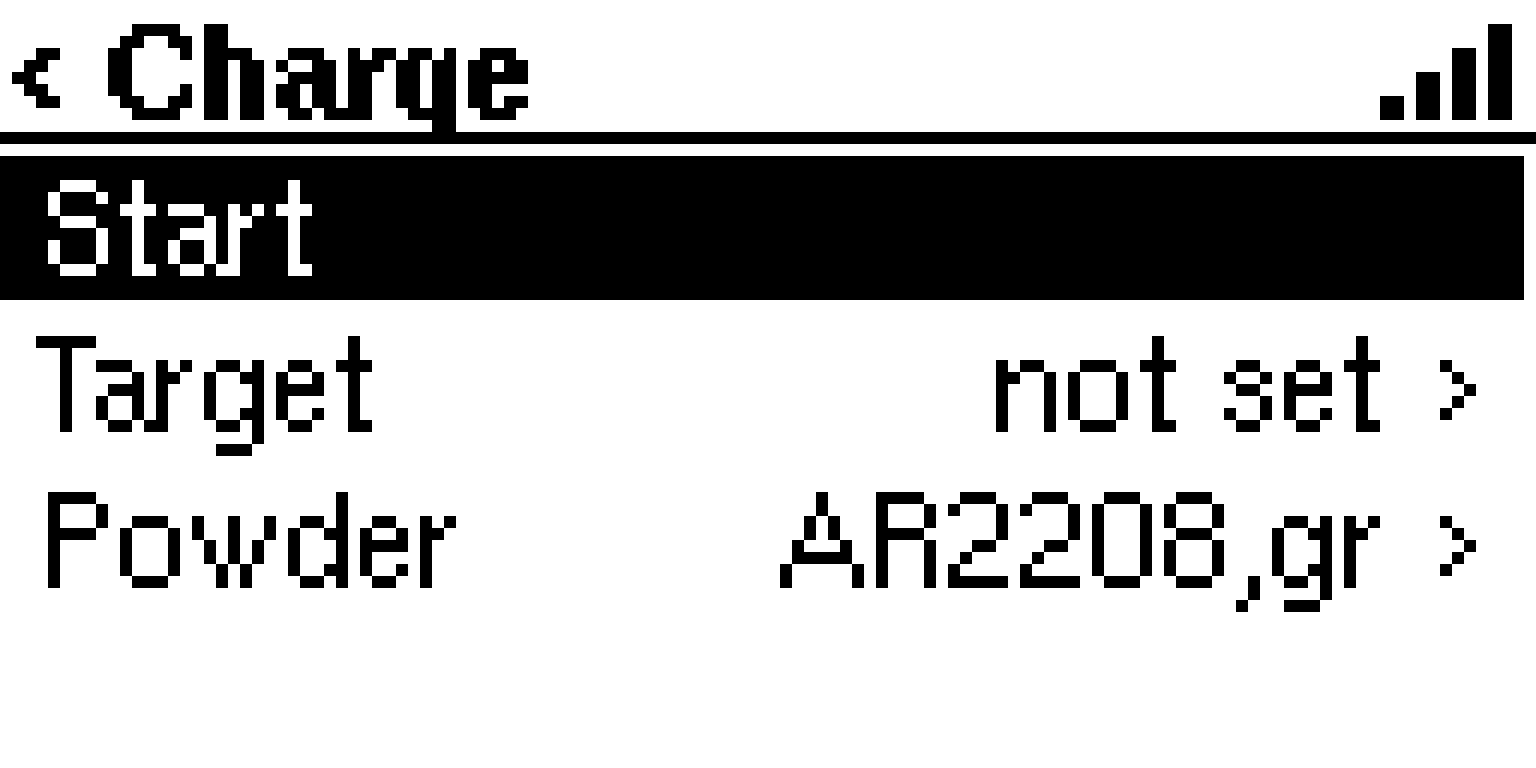
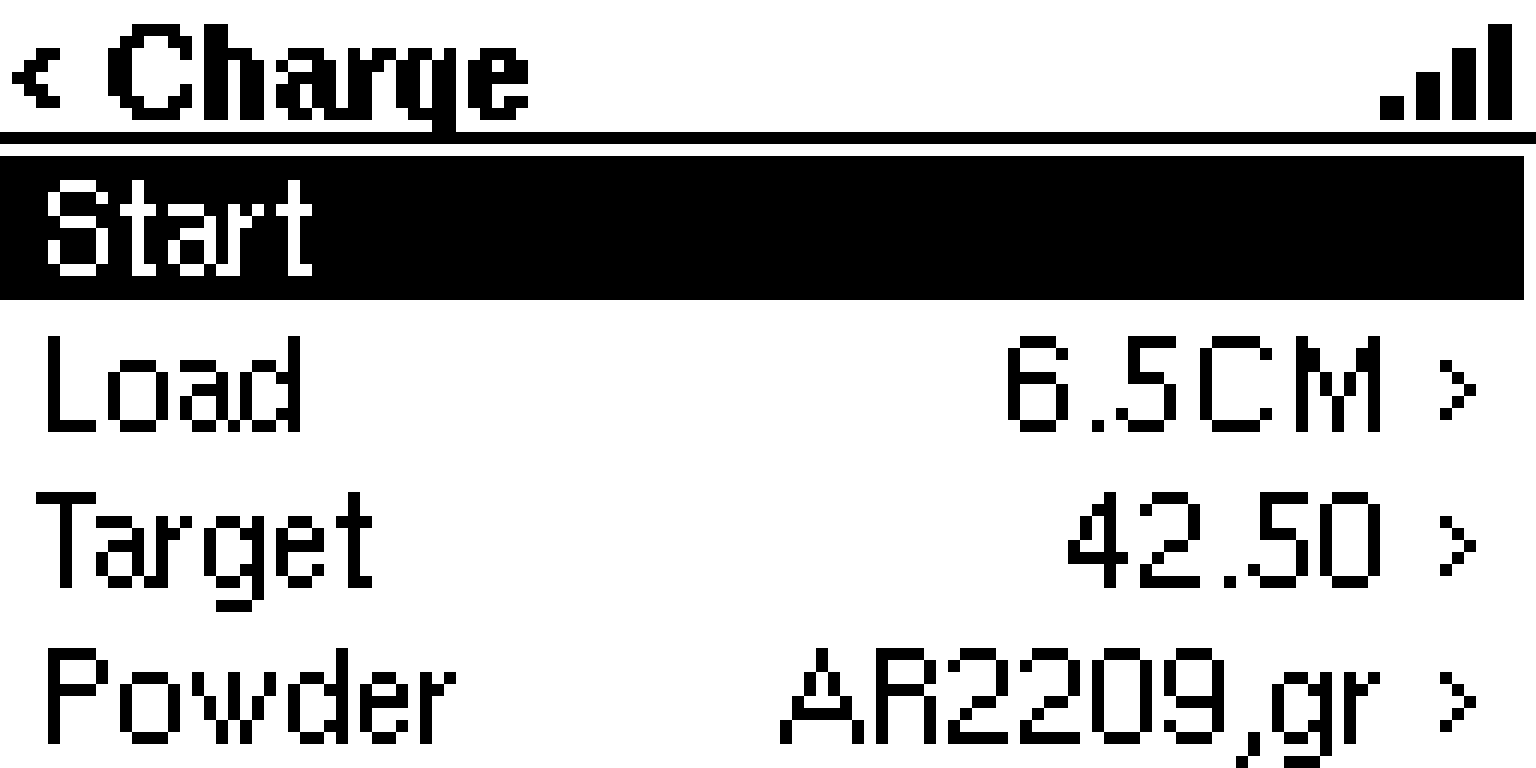
README: the loads, and the Charge and Trickler pages as they are now
What the unit does names the eight loads; the two pictures are taken
again from the Pico W: the screen's Charge page with its Load row, and
the web's Trickler page with its Load picker and the Loads destination.

diff --git a/README.md b/README.md
@@ -6,11 +6,11 @@ Join our [Discord server](https://discord.gg/ZhdThA2vrW) for help and developmen
 
 ## What it does
 
-- **Charges.** Set a target weight and a powder, put the cup on the scale, and the unit zeroes the scale, trickles the charge, asks you to take the cup off, and starts the next charge when the cup is back.
+- **Charges.** Choose a load, put the cup on the scale, and the unit zeroes the scale, trickles the charge, asks you to take the cup off, and starts the next charge when the cup is back.
 - **Calibrates and tunes itself.** A calibration measures the cup, the scale's lag and each powder's flow, and sets the charge's settings from them. With auto-tune switched on, the unit also tunes its control of the fine trickler as it charges.
-- **Keeps up to eight powders,** each with its own settings.
+- **Keeps up to eight loads and eight powders.** A load is a name, a target weight and the powder it is thrown with; a powder keeps its own settings. Two calibres on one powder are two loads, each with its own weight, and every load is still there after a restart.
 - **Purges** the powder out of the trickler (the cleanup).
-- **Has a web page** that works on a phone, a tablet or a computer: the charge with its live weight, the powders, every setting, and a backup of them. It needs no internet.
+- **Has a web page** that works on a phone, a tablet or a computer: the charge with its live weight, the loads, the powders, every setting, and a backup of them. It needs no internet.
 - **Sets itself up from a phone.** A new unit starts its own Wi-Fi hotspot and shows a code on its screen; scan it, and the page walks you through your Wi-Fi, the scale and the motors.
 - **Updates over Wi-Fi.** The unit finds a new release on GitHub and offers it on its screen and its web page.
 - **Has an API** for programs and agents: a REST API under `/api/v1` that describes itself, and a stream of events ([API v1](docs/developments_plans/ADR-003-http_rest_server/api_v1.md)).

diff --git a/docs/developments_plans/ADR-014-charge_profiles/progress.md b/docs/developments_plans/ADR-014-charge_profiles/progress.md
@@ -17,7 +17,9 @@ What was built and measured. The plan is in the [README](README.md).
 
 1. **The Pico 2 W** on the probe: flash, `menu_tour` (its Charge page saved again), `charge_cycle`. The owner puts it on.
 2. **A unit on v1.21 updated to this:** it rewrites the unit's settings, so it waits for the owner's word.
-3. **The README and the manuals** where they show the Charge page and the web's pages; then the close (this file, the README, the index) and the PR.
+3. The close (this file, the README, the index) and the PR.
+
+**The README brought up to date** the same evening: the loads in what the unit does, and its two pictures taken again from the Pico W, the screen's Charge page (its snap, three times its size, as before) and the web's Trickler page at 375 x 812 (the browser pane's capture at twice the size, scaled down), both showing the owner's "6.5CM" load. The manuals show neither page and say nothing of the charge: nothing to change there.
 
 ## 2026-11-28, evening, later: "Load" and its name, at the owner's word
 
